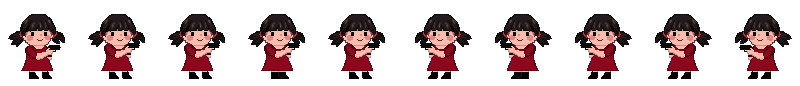
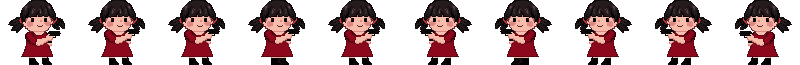
add qualcosa

diff --git a/GameLogic/GameEngine.cpp b/GameLogic/GameEngine.cpp
@@ -29,6 +29,7 @@ GameEngine::GameEngine(sf::RenderWindow &mainWindow) : gameWindow(&mainWindow), 
     background[1]->setPosition(background[0]->getGlobalBounds().width, 0);
     background[1]->scale(sf::Vector2f(scaleFactor, scaleFactor));
     this->stars = Star::createStars(gameWindow);
+    groundLevel = (7.98f / 11.85f) * background[0]->getGlobalBounds().height;
     /*props.push_back(new Sweet(sf::Vector2f(2000, 1000)));
     props[0]->scale(0.33, 0.33);*/
     //enemies.push_back(new Brawler(5, sf::Vector2f(1000, 300)));
@@ -74,7 +75,7 @@ void GameEngine::drawWorld() {
                             bullets.push_back(bullet);
                         enemy->move(sf::Vector2f(0, 1));
                         enemy->animate();
-                        enemy->fixHeight(961.5);
+                        enemy->fixHeight(groundLevel);
                         gameWindow->draw(*enemy);
                     }
 
@@ -142,7 +143,7 @@ void GameEngine::navigate(sf::Keyboard::Key key) {
 
 void GameEngine::moveHero(sf::Vector2f direction) {
     hero->move(direction);
-    hero->fixHeight(961.5);
+    hero->fixHeight(groundLevel);
 }
 
 void GameEngine::addEnemy(GameFactory::enemytype type) {
@@ -185,7 +186,7 @@ void GameEngine::restartClock() {
 void GameEngine::heroJump() {
     float position=hero->getPosition().y;
     float h= hero->getGlobalBounds().height;
-    if(position + h >= GroundLevel)
+    if(position + h >= groundLevel)
         hero->jump();
 
 }
@@ -231,15 +232,15 @@ float GameEngine::getGravity() {
 void GameEngine::placeEnemy(GameCharacter&enemy, bool isArcher) {
     sf::Vector2f position(gameWindow->getView().getCenter());
     position.x -= gameWindow->getView().getSize().x/2;
-    float offset = (rand()%gameWindow->getSize().x);
+    float offset = (rand() % gameWindow->getSize().x);
 
     if(isArcher){
 
     }
     else{
-        position.y = GroundLevel - enemy.getGlobalBounds().height;
+        position.y = groundLevel - enemy.getGlobalBounds().height;
     }
-    enemy.setPosition(position.x+offset,position.y);
+    enemy.setPosition(position.x + offset, position.y);
 }
 
  const Hero *GameEngine::getHero() const {
@@ -249,14 +250,14 @@ void GameEngine::placeEnemy(GameCharacter&enemy, bool isArcher) {
 void GameEngine::setHero(Hero *newHero) {
     if(hero!= nullptr)
     delete hero;
-    hero=newHero;
+    hero = newHero;
 
 }
 
 void GameEngine::setMenu(Menu *newMenu) {
     if(gameMenu!= nullptr)
         delete gameMenu;
-    gameMenu=newMenu;
+    gameMenu = newMenu;
 
 }
 
@@ -279,7 +280,7 @@ void GameEngine::Clear() {
 void GameEngine::setStars(std::vector<Star *> newStar) {
     for(auto i: stars) delete i;
     stars.clear();
-    stars=newStar;
+    stars = newStar;
 
 }
 
@@ -287,10 +288,10 @@ const std::vector<Star *> GameEngine::getStar() const {
     return stars;
 }
 
-void GameEngine::setscreen(Screen *newscreen) {
-    if(actualscreen != nullptr)
-        delete actualscreen;
-    actualscreen=newscreen;
+void GameEngine::setScreen(Screen *newscreen) {
+    if(actualScreen != nullptr)
+        delete actualScreen;
+    actualScreen=newscreen;
 
 
 }

diff --git a/GameCharacter/Hero/Hero.cpp b/GameCharacter/Hero/Hero.cpp
@@ -10,7 +10,7 @@
 sf::Texture* Hero::heroTexture = nullptr;
 
 Hero::Hero(float speed, sf::Vector2f position) : GameCharacter(speed, *Hero::heroTexture) {
-    setTextureRect(sf::IntRect(0, 0, 80, 86));
+    setTextureRect(sf::IntRect(0, 0, 80, 65));
     setPosition(position);
     fireClock.restart();
 }
@@ -29,7 +29,6 @@ void Hero::move(sf::Vector2f direction) {
    if(direction.x !=0|| direction.y!=0){
        if(direction.x != 0)
         direction.x < 0 ? revert = 1 : revert = 0;
-    float GroundLevel= 961.5;
     direction /= sqrt(direction.x * direction.x + direction.y * direction.y);
     GameCharacter::speed += GameCharacter::gravity;
     GameCharacter::speed.x = direction.x * speedX;
@@ -54,7 +53,7 @@ void Hero::animate() {
             actualFrame = 0;
         setTextureRect(textureFrame[actualFrame]);*/
         actualFrame < 4 ? actualFrame++ : actualFrame = 0;
-        setTextureRect(sf::IntRect(actualFrame * 80 + revert * 400, 0, 80, 86));
+        setTextureRect(sf::IntRect(actualFrame * 80 + revert * 400, 0, 80, 65));
     }
 }
 

diff --git a/GameLogic/GameEngine.h b/GameLogic/GameEngine.h
@@ -36,14 +36,14 @@ public:
     sf::RenderWindow& getWindow();
     static float getGravity();
     static float k;
-    void setscreen( Screen* screen);
+    void setScreen( Screen* screen);
 
 
     sf::Texture* backgroundTexture;
     void setHero(Hero* newHero);
-    const  Hero*getHero() const;
+    const Hero* getHero() const;
     void setMenu(Menu* newMenu);
-    const  Menu*getMenu() const;
+    const Menu* getMenu() const;
     void Clear();
     void setStars(std::vector<Star*> newStar);
     Menu* gameMenu;
@@ -68,8 +68,8 @@ private:
     void restartClock();
     float gameSpeed;
     sf::Clock gameClock;
-    float GroundLevel{961.5};
-    Screen* actualscreen;
+    float groundLevel{961.5};
+    Screen* actualScreen;
 
 };
 

diff --git a/main.cpp b/main.cpp
@@ -17,6 +17,7 @@
     srand(time(NULL));
 
     sf::RenderWindow window(sf::VideoMode::getDesktopMode(), "isAngry");
+
     auto cascettoEngine = new GameEngine(window);
 
     while (window.isOpen()) {
